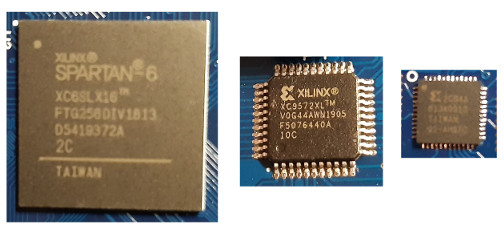
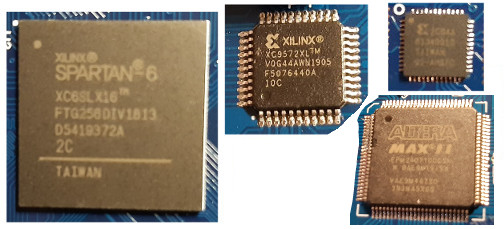
Add 11/19/2020 entry

diff --git a/README.md b/README.md
@@ -2,6 +2,11 @@
 I will use this "blog like" github repo to document what I have done with FPGAs.
 
 
+## 11/19/2020
+Received first Altera development board ordered on 10/31 — powering shows delivery demo:
+![](res/altera.EPM240.delivery.anim.gif)
+
+
 ## 11/18/2020
 Today's Hackaday [Hacking The FPGA Control Board From A Bitcoin Miner](https://hackaday.com/2020/11/18/hacking-the-fpga-control-board-from-a-bitcoin-miner/) article references [xjtuecho's github repo](https://github.com/xjtuecho/EBAZ4205) with lots of details on how to deal with EBAZ4205 board I ordered initially 10/26 (how to power the board, shut down the BTC miner program in Linux running on board's dual core A9, setting static IP address for using ethernet finally, ...)
 
@@ -34,6 +39,10 @@ Did buy [XILINX CoolRunner-II FPGA CPLD XC2C64A Core development board](https://
 ## 11/3/2020
 Received development board ordered 10/30 — powering shows delivery demo:  
 ![](res/XC9572XL.delivery.anim.gif)
+
+
+## 10/31/2020
+Ordered 8$ [Altera MAX II EPM240 CPLD Development Board](https://www.amazon.de/-/en/gp/product/B082LS4YBZ/ref=ppx_yo_dt_b_asin_title_o03_s00).
 
 
 ## 10/30/2020
